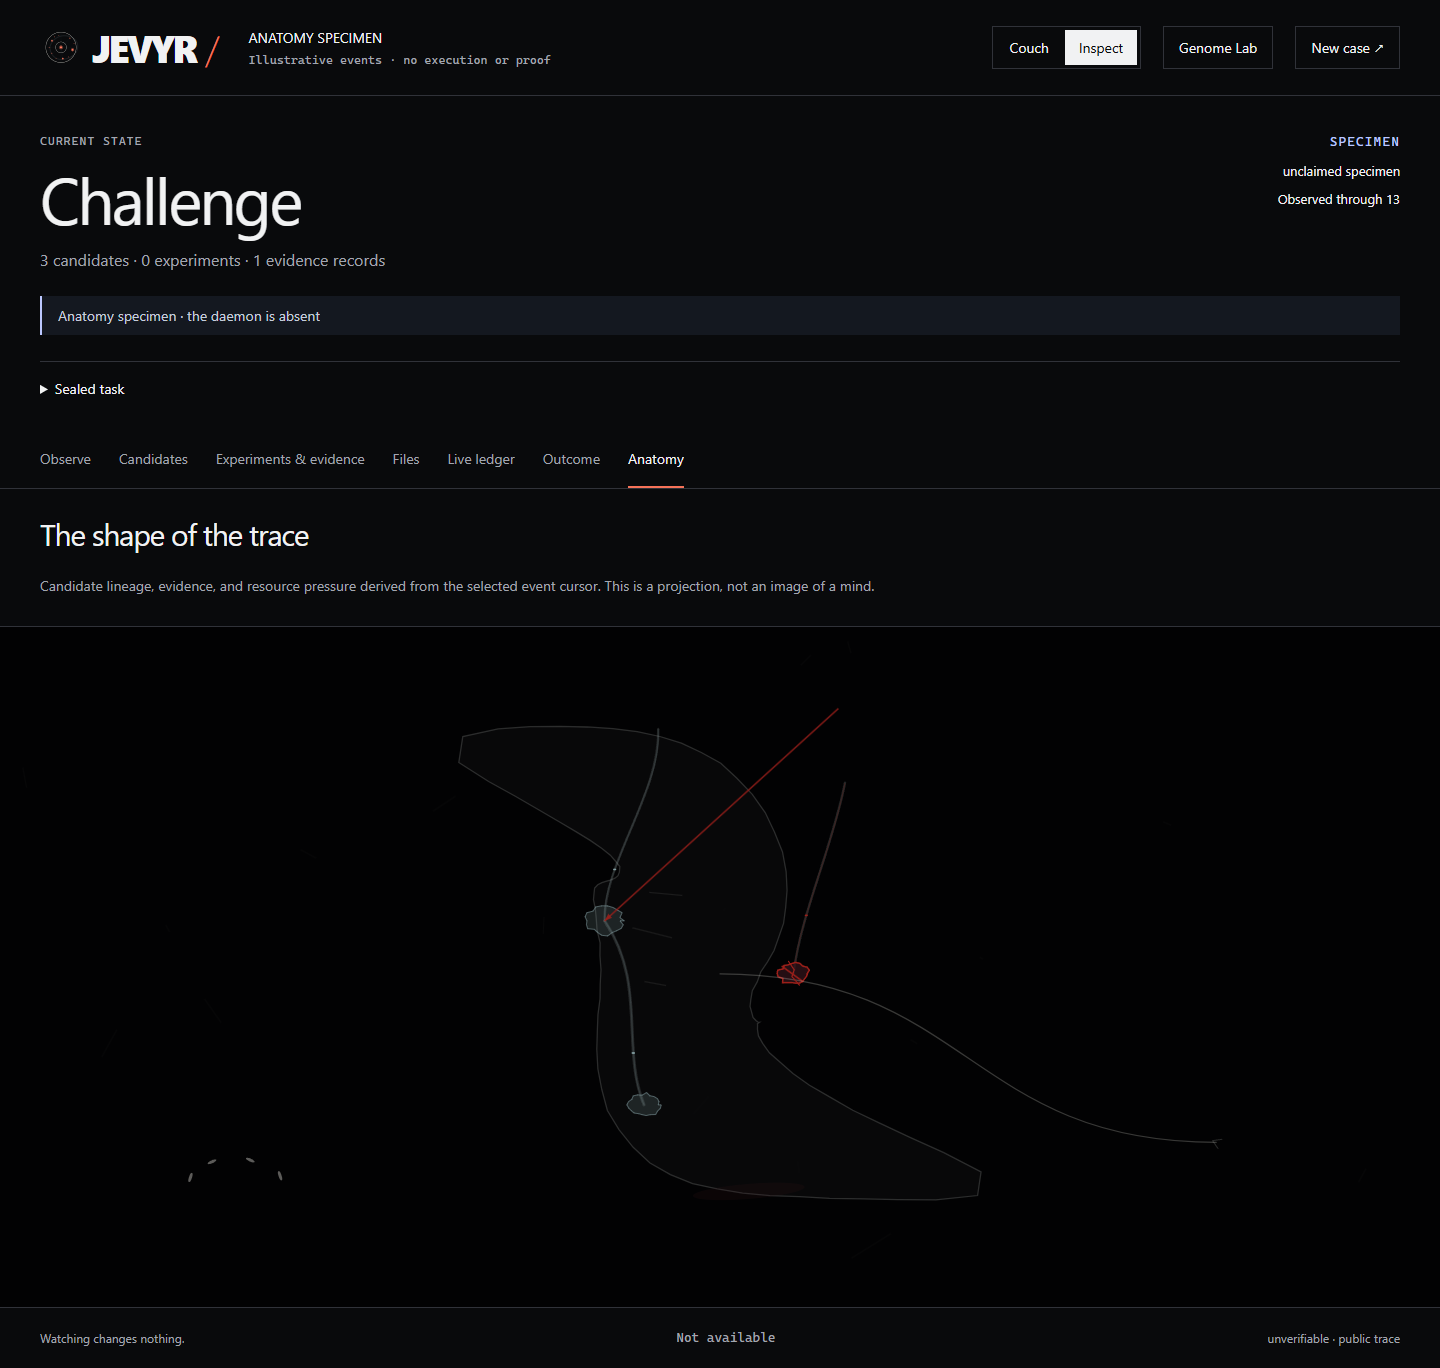
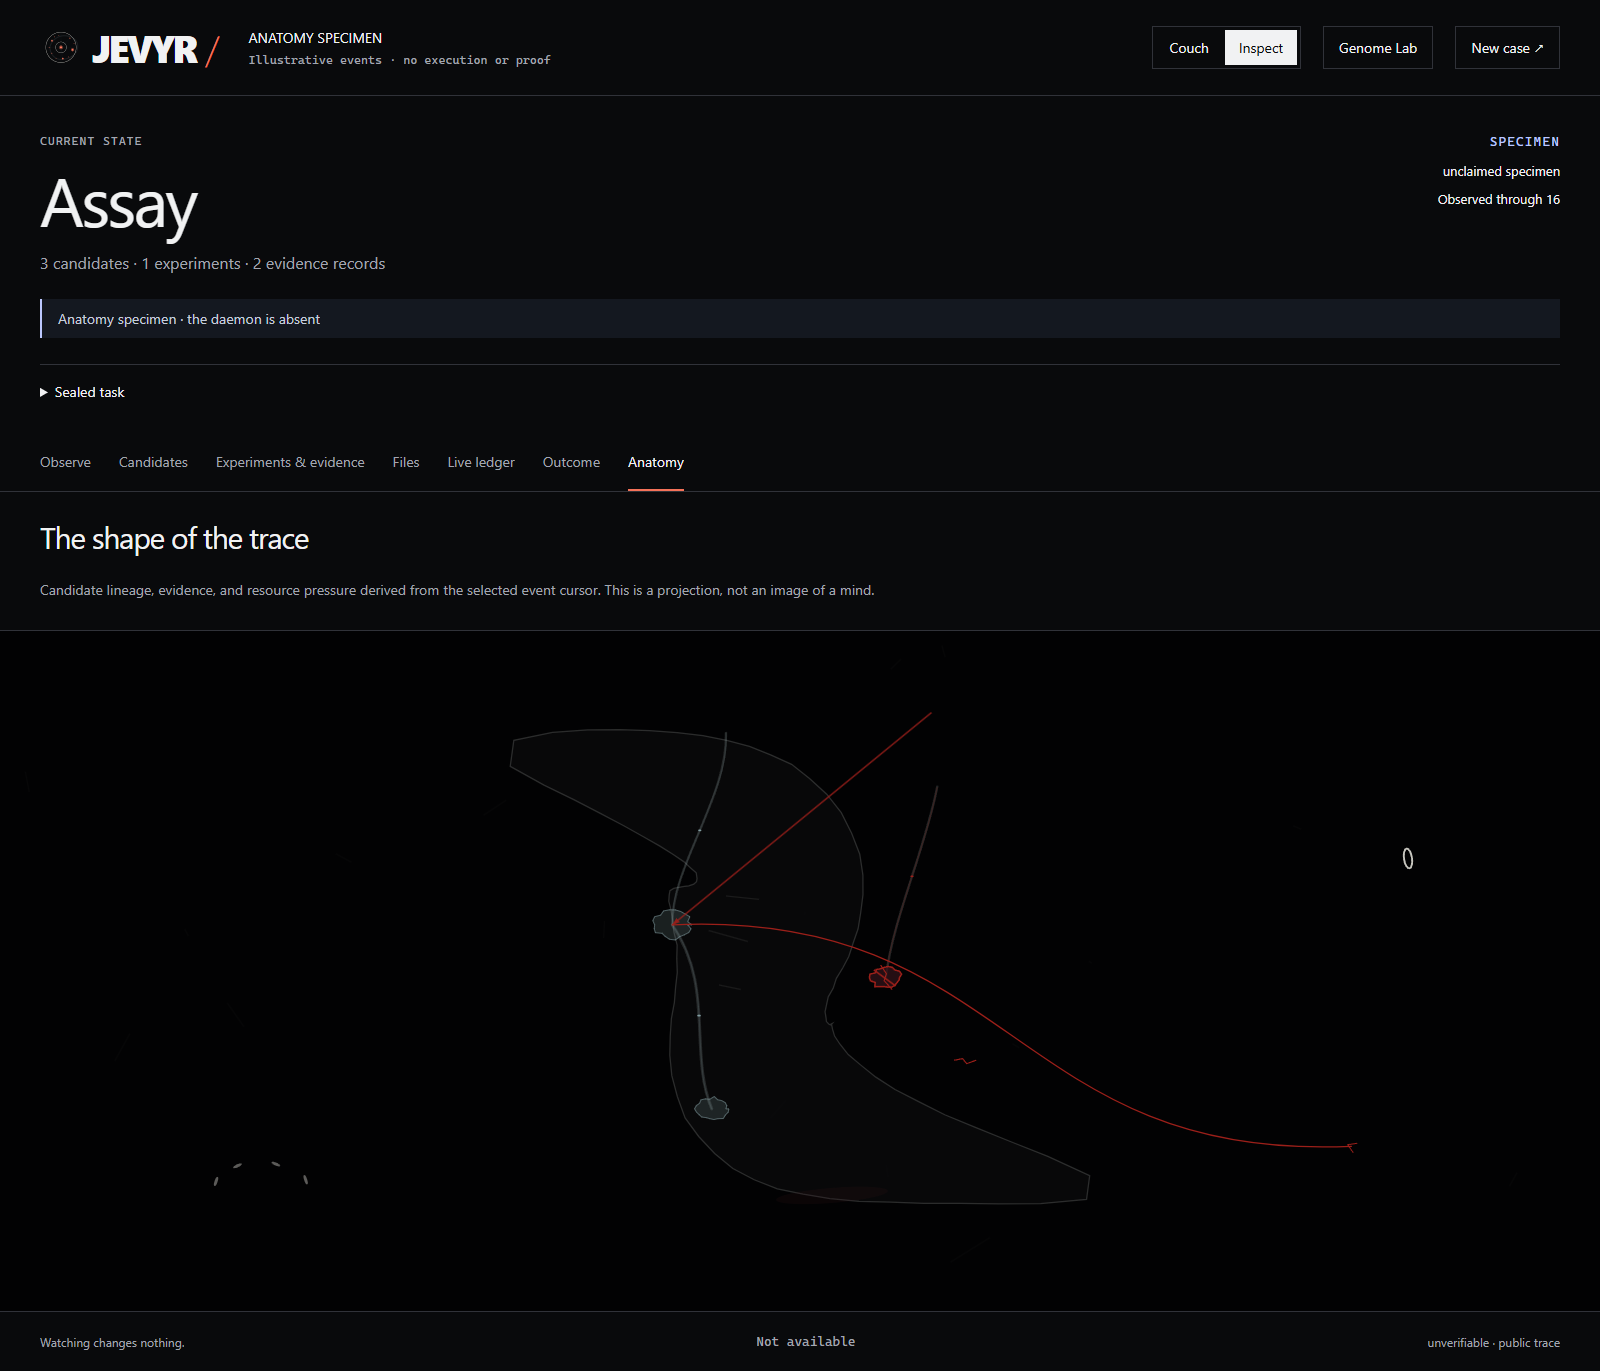
Add concrete parser specimen and refresh Chamber screenshots

diff --git a/apps/chamber/app/page.tsx b/apps/chamber/app/page.tsx
@@ -645,6 +645,54 @@ const SPECIMEN_EVENTS: Omit<JevyrPublicEvent, 'sequence'>[] = [
   },
 ];
 
+const REALISTIC_SPECIMEN_IMPULSE =
+  'Create a dependency-free parser that rejects malformed input and reports the error position.';
+
+const REALISTIC_SPECIMEN_SUMMARIES = [
+  'The parser task entered the Case.',
+  'The input fixtures became immutable material.',
+  'The parser must accept valid input and reject malformed input with its error position.',
+  'Ingress closed; the parser contract cannot be changed.',
+  'Available model and test capabilities were counted.',
+  'Three parser approaches entered the search.',
+  'A permissive parser accepted malformed input.',
+  'A regex-only parser failed on nested structure.',
+  'A child parser inherited strict error handling.',
+  'The search kept strictness and compatibility in view.',
+  'The first parser candidate produced a runnable artifact.',
+  'The child parser produced an isolated artifact.',
+  'A malformed fixture exposed a silent acceptance.',
+  'The first parser candidate entered the same fixture suite.',
+  'The candidate returned the wrong error position.',
+  'The first candidate failed the parser fixture suite.',
+  'The archive retained the failure as a scar.',
+  'The child parser entered the same fixture suite.',
+  'A model reported confidence; it remained non-authoritative.',
+  'The Forge began the parser fixture suite without accepting the model vote.',
+  'The parser returned a measurable result on the first fixture set.',
+  'The child passed comparison; the contract remained unchanged.',
+  'The measured archive retained the child parser.',
+  'Only now did the archive select the child parser.',
+  'Selected-candidate evidence supported the parser requirement.',
+  'The parser result was checked against the sealed requirement.',
+  'The candidate was reviewed for unresolved obligations.',
+  'The evidence graph closed with one supported path.',
+  'The deterministic judge compared requirements with evidence.',
+  'No hidden continuation or outside instruction entered the Case.',
+  'The illustrative parser Case closed without claiming real execution.',
+] as const;
+
+const REALISTIC_SPECIMEN_EVENTS: Omit<JevyrPublicEvent, 'sequence'>[] =
+  SPECIMEN_EVENTS.map((event, index) => {
+    const summary = REALISTIC_SPECIMEN_SUMMARIES[index] ?? event.summary;
+    const payload: Record<string, unknown> = {
+      ...(event.payload as Record<string, unknown>),
+      summary,
+    };
+    if (index === 2) payload.statement = summary;
+    return { ...event, summary, payload } as Omit<JevyrPublicEvent, 'sequence'>;
+  });
+
 function normalizedStage(value?: string) {
   return value?.toUpperCase().replaceAll('-', '_').replaceAll('.', '_') ?? '';
 }
@@ -910,37 +958,40 @@ export default function JevyrChamber() {
     });
   }, []);
 
-  const beginSpecimen = useCallback(() => {
-    if (specimenTimer.current) clearInterval(specimenTimer.current);
-    castClosedRef.current = true;
-    setStreamMode('specimen');
-    setNotice('Anatomy specimen · the daemon is absent');
-    setReceiptDigest(undefined);
-    setAuthenticity('specimen');
-    setVerificationKeyId(undefined);
-    setEvents([]);
-    terminalRef.current = false;
-    authenticatedCaseDigestRef.current = undefined;
-    closureAuthenticationStartedRef.current = false;
-    sequenceRef.current = 0;
-    headDigestRef.current = null;
-    caseDigestRef.current = undefined;
-    runDigestRef.current = undefined;
-    digestBySequenceRef.current.clear();
-    let cursor = 0;
-    specimenTimer.current = setInterval(() => {
-      const next = SPECIMEN_EVENTS[cursor];
-      if (!next) {
-        if (specimenTimer.current) clearInterval(specimenTimer.current);
-        specimenTimer.current = null;
-        setStreamMode('ended');
-        setNotice('Specimen complete · no execution was claimed');
-        return;
-      }
-      appendEvents([{ ...next, sequence: cursor + 1 }]);
-      cursor += 1;
-    }, 1500);
-  }, [appendEvents]);
+  const beginSpecimen = useCallback(
+    (specimenEvents: Omit<JevyrPublicEvent, 'sequence'>[] = SPECIMEN_EVENTS) => {
+      if (specimenTimer.current) clearInterval(specimenTimer.current);
+      castClosedRef.current = true;
+      setStreamMode('specimen');
+      setNotice('Anatomy specimen · the daemon is absent');
+      setReceiptDigest(undefined);
+      setAuthenticity('specimen');
+      setVerificationKeyId(undefined);
+      setEvents([]);
+      terminalRef.current = false;
+      authenticatedCaseDigestRef.current = undefined;
+      closureAuthenticationStartedRef.current = false;
+      sequenceRef.current = 0;
+      headDigestRef.current = null;
+      caseDigestRef.current = undefined;
+      runDigestRef.current = undefined;
+      digestBySequenceRef.current.clear();
+      let cursor = 0;
+      specimenTimer.current = setInterval(() => {
+        const next = specimenEvents[cursor];
+        if (!next) {
+          if (specimenTimer.current) clearInterval(specimenTimer.current);
+          specimenTimer.current = null;
+          setStreamMode('ended');
+          setNotice('Specimen complete · no execution was claimed');
+          return;
+        }
+        appendEvents([{ ...next, sequence: cursor + 1 }]);
+        cursor += 1;
+      }, 1500);
+    },
+    [appendEvents],
+  );
 
   const castImpulse = useCallback(
     async (text: string, options?: CastOptions) => {
@@ -997,11 +1048,14 @@ export default function JevyrChamber() {
     queueMicrotask(() => {
       if (disposed) return;
       if (parameters.get('specimen') === '1') {
+        const realistic = parameters.get('scenario') === 'parser';
         setImpulse(
-          'Design a self-validating machine that refuses inherited answers.',
+          realistic
+            ? REALISTIC_SPECIMEN_IMPULSE
+            : 'Design a self-validating machine that refuses inherited answers.',
         );
         setSealed(true);
-        beginSpecimen();
+        beginSpecimen(realistic ? REALISTIC_SPECIMEN_EVENTS : SPECIMEN_EVENTS);
       } else if (requestedCase) {
         castClosedRef.current = true;
         setSealed(true);

diff --git a/README.md b/README.md
@@ -6,8 +6,14 @@
 > it survived a test?
 
 Jevyr is a local-first AI judge for claims, plans, code, and decisions. It was
-built by Sondre, an independent developer exploring what AI systems can do when
-they are asked to test ideas instead of only talking about them.
+built by Sondre Formo Lindheim, an independent developer exploring what AI
+systems can do when they are asked to test ideas instead of only talking about
+them.
+
+The project started in early 2026. I am open-sourcing it now because it is an
+experiment I want to share, inspect, and develop in public. It is my first
+open-source project, and the point is to give other people something to fork,
+play with, question, and turn into their own tools.
 
 **Project status: experimental and unfinished.** This repository is shared for
 inspection, learning, and further development. It is ambitious, complex, and not
@@ -38,6 +44,46 @@ The central idea is simple:
 Jevyr is not a chatbot, and it is not an unrestricted autonomous agent. It is a
 judgment system.
 
+## Quick start
+
+If you are a human, fork the repository, install it, and start the Chamber:
+
+~~~bash
+corepack enable
+pnpm install
+pnpm build
+pnpm jevyr init .
+pnpm jevyr doctor
+pnpm jevyr up --local-model YOUR_INSTALLED_OLLAMA_MODEL
+~~~
+
+Then open http://localhost:3001. If you are an AI agent, connect to Jevyr through
+MCP and submit a Case; the short version is `jevyr mcp serve`. The full MCP
+configuration is below.
+
+Want to look around before running anything real? Open
+`http://localhost:3001/?specimen=1` for an illustrative Case. The specimen is
+not execution, proof, or a signed result.
+
+## What you can explore
+
+Jevyr is meant to be forked and played with. You can use it to:
+
+- give a human a visible, replayable way to compare ideas and inspect evidence;
+- let an AI agent test its own proposed code, plans, tool actions, or memories
+  before another system relies on them;
+- build custom assays for software, research, or model evaluations;
+- connect a simulator or robot adapter and test plans before physical execution;
+- study disagreement, candidate evolution, uncertainty, and when a system should
+  say “unproven”; and
+- ask open-ended questions such as “What is the most beautiful thing?” and see
+  how different models interpret the question, as a subjective exploration
+  rather than an objective measurement.
+
+The intended entry point for agents is MCP. The Chamber is an optional human
+window into the Case: open it when you want to watch, read, or inspect what was
+recorded, but you do not need to operate the interface as a chat application.
+
 ## Why this matters
 
 A normal AI answer might say:
@@ -53,13 +99,27 @@ Jevyr tries to produce something closer to:
 That separation matters because a model's confidence is not the same thing as
 evidence.
 
-Jevyr is not a truth machine. It can only judge claims that have a defined way to
-be tested.
+Jevyr is not a truth machine. It can only judge a claim as supported when there
+is a defined way to test it. Open-ended prompts can still be useful: for example,
+asking “What is the most beautiful thing?” can produce model perspectives,
+explicit criteria, comparisons, and disagreement. That is an exploration of
+interpretation—not proof that one answer is universally beautiful.
 
 ## A quick look
 
 This is a rough recording of the Chamber interface. It is a visual introduction,
 not proof that a live Case ran.
+
+![The Jevyr Chamber](docs/screenshots/chamber-anatomy.png)
+
+The self-validating-machine prompt is the conceptual specimen. This second
+illustration uses a more concrete software task: build a dependency-free parser
+that rejects malformed input and reports where the error occurred. It is still a
+simulation, but it shows the kind of bounded, testable work Jevyr is currently
+best suited for. Run it locally with
+`http://localhost:3001/?specimen=1&scenario=parser`.
+
+![A concrete parser Case in the Jevyr Chamber](docs/screenshots/chamber-parser-specimen.png)
 
 [![Watch the Jevyr overview](docs/screenshots/jevyr-overview.png)](docs/media/jevyr-overview.mp4)
 
@@ -271,12 +331,15 @@ The Chamber is intentionally not a normal chat interface. Couch is the readable
 surface for humans. Inspect is a forensic surface for reviewers and MCP clients
 that need to follow a Case into its evidence. Its density is deliberate: it is
 showing provenance and state, not trying to make every internal panel feel simple.
+The CLI can open the Chamber when Jevyr starts; MCP itself is the agent transport
+and does not need to steer a human browser.
 
 ## See the Chamber
 
-These screenshots come from the built-in anatomy specimen and the live Airlock
+These screenshots come from the built-in anatomy specimen and the Airlock
 interface. The specimen is intentionally illustrative: it is not a signed Case
-and it is not execution proof.
+and it is not execution proof. The Airlock capture shows the interface reading
+local capacity, not a failed Case.
 
 The transparent [Jevyr mark](assets/jevyr-mark.svg) is the circular
 experimental-world symbol used by the Chamber.
